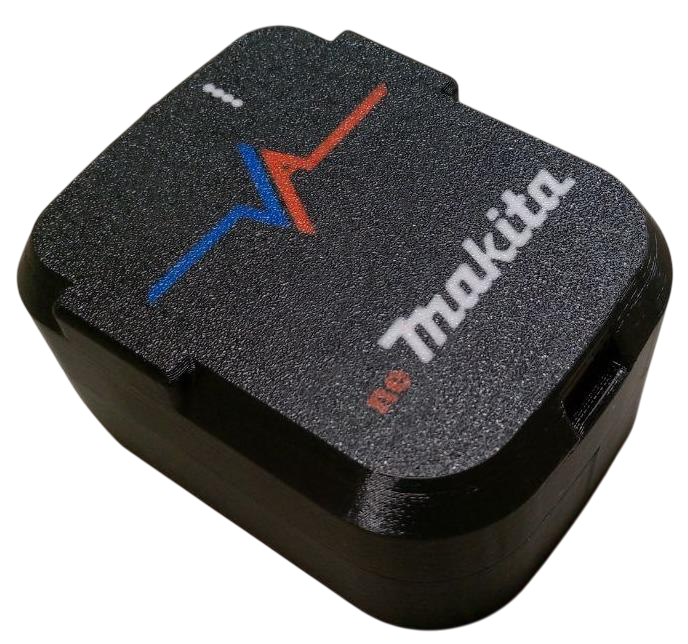
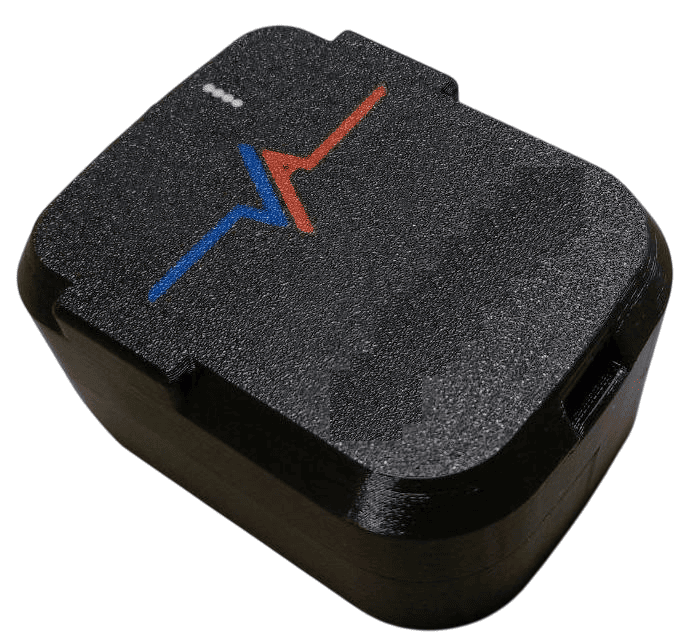
elixsToFix

diff --git a/index.html b/index.html
@@ -474,8 +474,7 @@
     </div>
 
     <div class="content">
-        <h1><i class="fas fa-battery-three-quarters"></i> Инструкция по работе с диагностическим модулем аккумуляторов
-            Makita</h1>
+        <h1><i class="fas fa-battery-three-quarters"></i> Инструкция по работе с диагностическим модулем ЭлИкс toFIX</h1>
         <div class="image-container">
             <img src="images/nemakita.png" alt="Общий вид">
             <div class="image-caption">Общий вид устройства</div>
